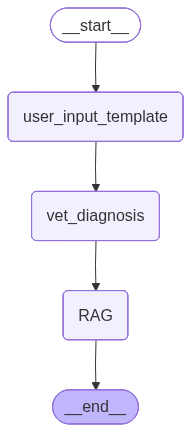
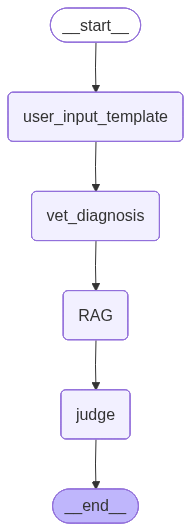
feat. judge 그래프 오케스트레이터에 붙이고 실행까지 확인

Changed region(s): [[0.0262, 0.0, 0.9686, 0.9931], [0.2356, 0.4815, 0.3665, 0.5116]]

diff --git a/app/agents/orchestrator/orchestrator_graph.py b/app/agents/orchestrator/orchestrator_graph.py
@@ -11,6 +11,9 @@ from app.agents.orchestrator.state.orchestrator_state import OrchestratorState
 from app.agents.rag_agent.rag_graph import graph as retrieve_graph
 from app.agents.user_input_template_agent.graph import graph as user_input_graph
 from app.agents.vet_agent.graph import graph as vet_graph
+from app.agents.judge_agent.graph import graph as judge_graph
+# from app.agents.composer_agent.graph import graph as composer_graph
+
 
 
 def build_orchestrator_graph():
@@ -19,11 +22,13 @@ def build_orchestrator_graph():
     graph_builder.add_node("user_input_template", user_input_graph)
     graph_builder.add_node("vet_diagnosis", vet_graph)
     graph_builder.add_node("RAG", retrieve_graph)
+    graph_builder.add_node("judge", judge_graph)
 
     graph_builder.add_edge(START, "user_input_template")
     graph_builder.add_edge("user_input_template", "vet_diagnosis")
     graph_builder.add_edge("vet_diagnosis", "RAG")
-    graph_builder.add_edge("RAG", END)
+    graph_builder.add_edge("RAG", "judge")
+    graph_builder.add_edge("judge", END)
 
     return graph_builder.compile()
 
@@ -51,6 +56,7 @@ def run_test_orchestration() -> str:
         "RAG 결과: ",
         [doc.page_content for doc in result["retrieved_documents"]],
     )
+    rprint("Judge 검증 결과:", result.get("validation_result"))
 
     return result
 

diff --git a/app/agents/judge_agent/nodes/validator.py b/app/agents/judge_agent/nodes/validator.py
@@ -1,8 +1,11 @@
 import os
+from app.agents.vet_agent.state.vet_state import VetAgentState
 from dotenv import load_dotenv
 from langchain_upstage import ChatUpstage 
 from langchain_core.prompts import ChatPromptTemplate
-from ..state import AgentState, ValidationResult
+from ..state import JudgeAgentState, ValidationResult
+
+from rich import print as rprint
 
 # .env 파일 로드 (API Key 때문에 필수)
 load_dotenv()
@@ -10,11 +13,12 @@ load_dotenv()
 # ==========================================
 # 검증 노드 핵심 로직
 # ==========================================
-def validator_node(state: AgentState):
-    print("\n🚀 [Validator] Document 리스트 분석 및 검증 시작...")
+def validator_node(state: JudgeAgentState):
+    rprint("\n🚀 [Validator] Document 리스트 분석 및 검증 시작...")
 
     # 1. 데이터 꺼내기 
-    vet_data = state.vet_result
+    vet_field_keys = VetAgentState.model_fields.keys()
+    vet_data = state.model_dump(include=vet_field_keys)
     docs = state.retrieved_documents
 
     # 2. Documents 객체들을 LLM이 읽을 수 있는 문자열로 변환 

diff --git a/app/agents/judge_agent/state.py b/app/agents/judge_agent/state.py
@@ -1,5 +1,8 @@
-from typing import List, Dict, Any
+from typing import List, Dict, Any, Optional
 from enum import Enum
+from app.agents.rag_agent.rag_graph import RagGraphState
+from app.agents.rag_agent.state.rag_state import RagState
+from app.agents.vet_agent.state.vet_state import VetAgentState
 from langchain_core.documents import Document
 from pydantic import BaseModel, Field
 
@@ -46,10 +49,8 @@ class ValidationResult(BaseModel):
 # ==========================================
 # 3. [Graph State] 통합 상태 정의
 # ==========================================
-class AgentState(BaseModel):
-    # 기존: user_input, vet_response 따로 존재
-    # 변경: vet_result 하나에 다 들어있음! (Dict로 변환되어 들어올 가능성이 높음)
-    vet_result: Dict[str, Any] = Field(default_factory=dict)
+class JudgeAgentState(VetAgentState):
+    # vet_result: Dict[str, Any] = Field(default_factory=dict)
 
     # RAG 결과
     retrieved_documents: List[Document] = Field(default_factory=list)

diff --git a/app/agents/composer_agent/graph.py b/app/agents/composer_agent/graph.py
@@ -1,13 +1,13 @@
 from langgraph.graph import END, START, StateGraph
 
 # [중요] Judge Agent에 있는 State를 가져와서 씁니다
-from app.agents.judge_agent.state import AgentState
+from app.agents.judge_agent.state import JudgeAgentState
 from .nodes.writer import writer_node
 
 # ==========================================
 #  그래프 빌드
 # ==========================================
-builder = StateGraph(AgentState)
+builder = StateGraph(JudgeAgentState)
 builder.add_node("writer", writer_node)
 builder.add_edge(START, "writer")
 builder.add_edge("writer", END)

diff --git a/app/agents/composer_agent/nodes/writer.py b/app/agents/composer_agent/nodes/writer.py
@@ -4,12 +4,12 @@ from langchain_core.output_parsers import StrOutputParser
 from langchain_upstage import ChatUpstage
 
 # [중요] State는 Judge Agent와 같은 것을 씁니다 (공유)
-from app.agents.judge_agent.state import AgentState
+from app.agents.judge_agent.state import JudgeAgentState
 
 # .env 파일 로드 (API Key 때문에 필수)
 load_dotenv()
 
-def writer_node(state: AgentState):
+def writer_node(state: JudgeAgentState):
     print("\n✍ [Composer] 최종 답변 작성 중...")
 
     # 1. 데이터 꺼내기

diff --git a/app/agents/judge_agent/graph.py b/app/agents/judge_agent/graph.py
@@ -1,12 +1,12 @@
 from langgraph.graph import END, START, StateGraph
 
-from .state import AgentState
+from .state import JudgeAgentState
 from .nodes.validator import validator_node
 
 # ==========================================
 #  그래프 정의 (변하지 않음)
 # ==========================================
-builder = StateGraph(AgentState)
+builder = StateGraph(JudgeAgentState)
 builder.add_node("validator", validator_node)
 builder.add_edge(START, "validator")
 builder.add_edge("validator", END)

diff --git a/app/agents/document_parser/dp_graph.py b/app/agents/document_parser/dp_graph.py
@@ -5,7 +5,7 @@ from app.agents.document_parser.nodes.vector_store import ingest_chunks
 COLLECTION_NAME = "pet-insurance-recommender-v1.0"
 
 if __name__ == "__main__":
-    FILE_NAME = "meritz_non_dividend_petpermint_cat_family_46_170.pdf"
+    FILE_NAME = "meritz_maum_pet_12_61.pdf"
     dp_result = parse_document(FILE_NAME)
 
     chunks = split_dp_result(dp_result)

diff --git a/app/agents/orchestrator/state/orchestrator_state.py b/app/agents/orchestrator/state/orchestrator_state.py
@@ -1,5 +1,6 @@
+from app.agents.judge_agent.state import JudgeAgentState
 from app.agents.vet_agent.state import VetAgentState
 from app.agents.rag_agent.state.rag_state import RagState
 
 
-class OrchestratorState(VetAgentState, RagState): ...
+class OrchestratorState(JudgeAgentState, RagState, VetAgentState ): ...
